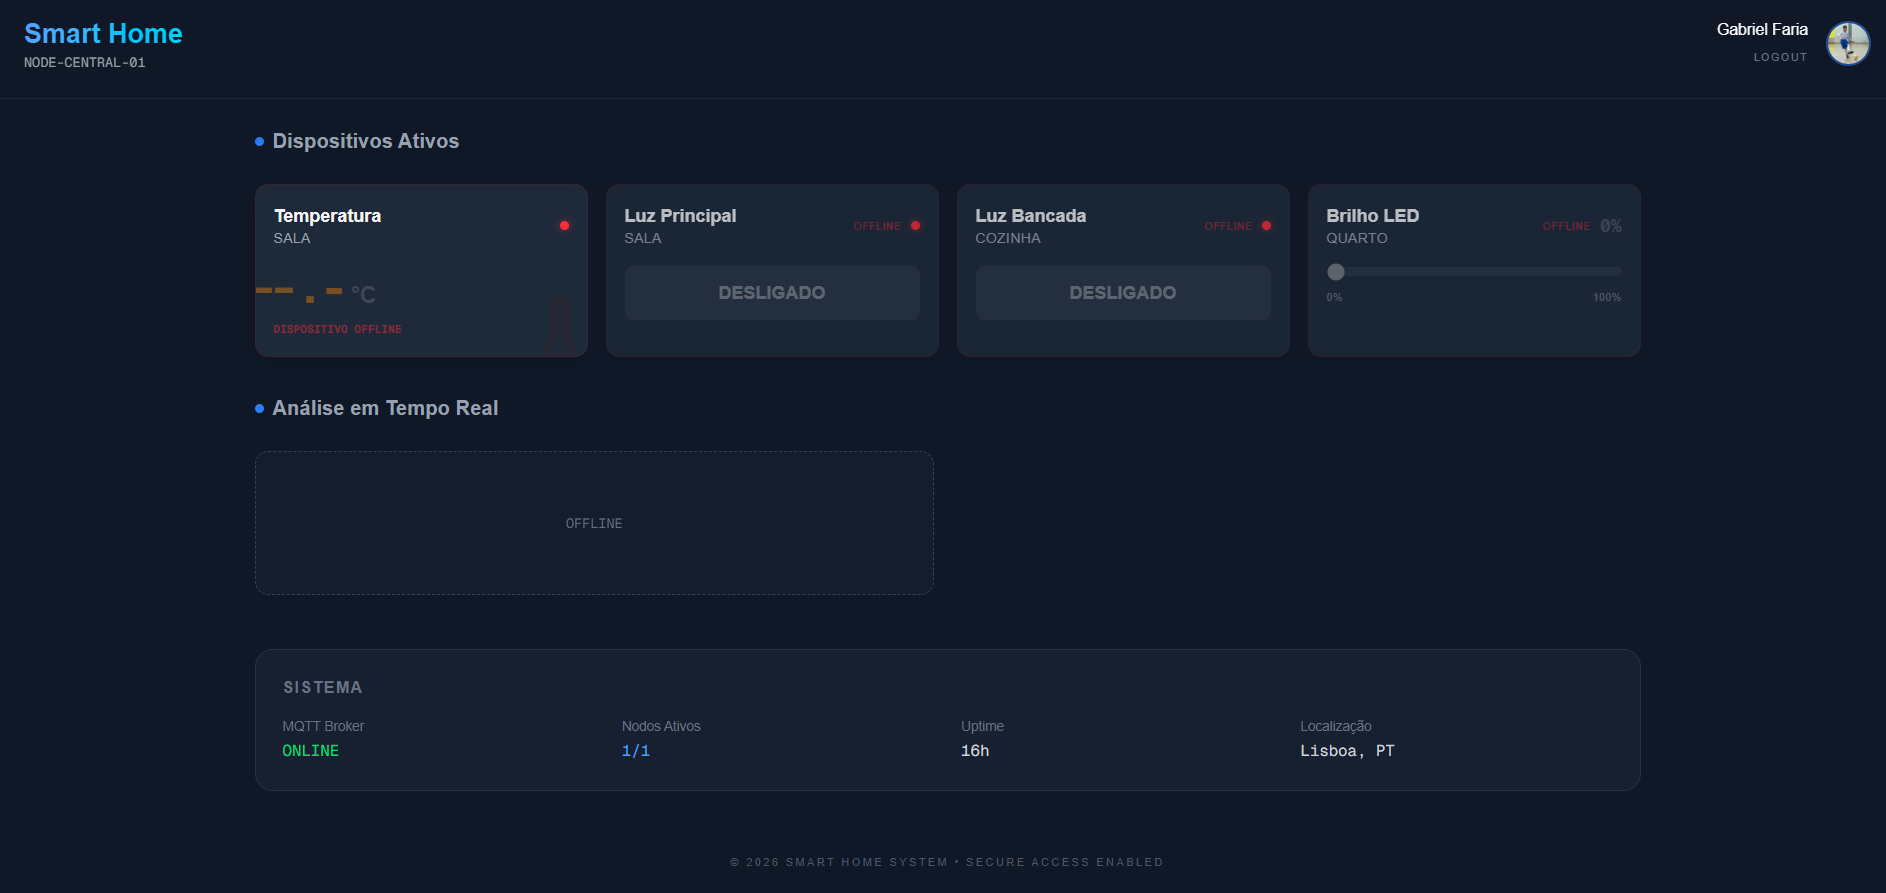
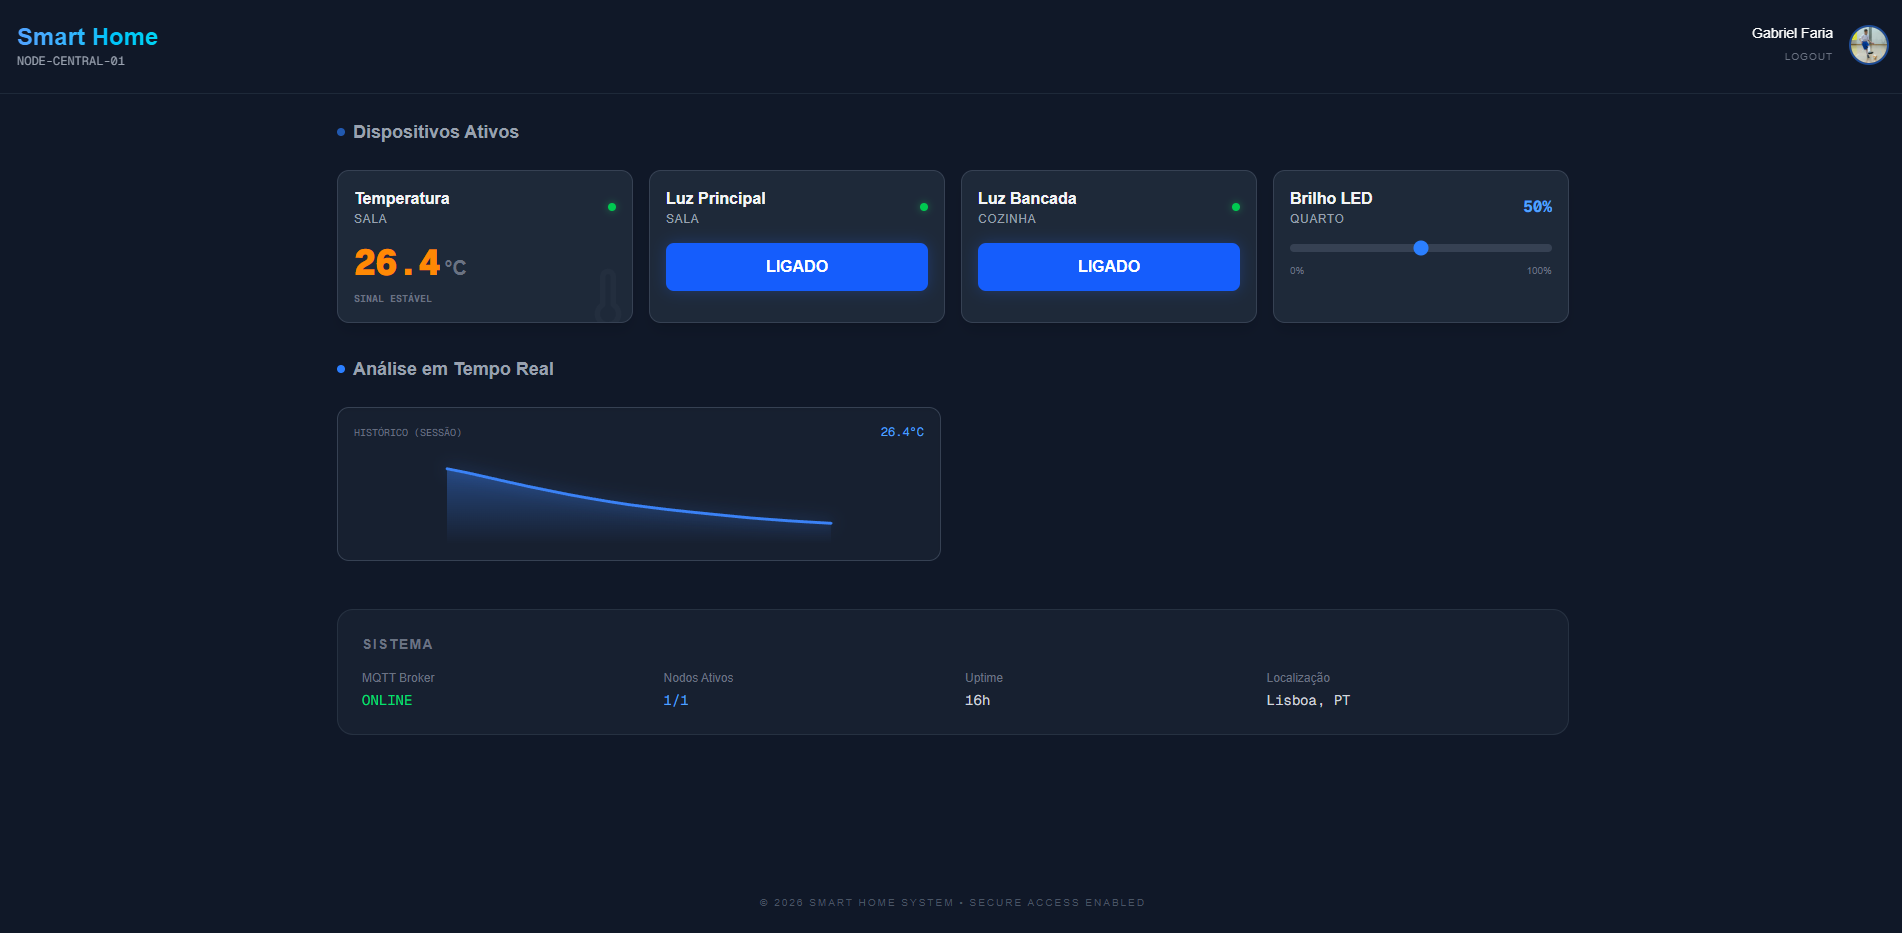
Document the online/offline status fix with screenshots
Adds before/after dashboard screenshots and a HiveMQ web client
capture showing the retained ONLINE status message, and updates the
main dashboard screenshot to the working (online) state since the
old one incidentally captured the offline bug.

diff --git a/docs/source/projects/smart-home/smart_home_mqtt.rst b/docs/source/projects/smart-home/smart_home_mqtt.rst
@@ -122,6 +122,55 @@ User Interface
                :width: 100%
                :alt: Página Principal
 
+Device Status: Online / Offline
+--------------------------------
+
+.. tab-set::
+
+   .. tab-item:: English
+
+      The dashboard tracks whether the ESP32 is actually reachable through a dedicated ``home/status/esp32`` topic, separate from the MQTT broker connection itself. Early on, the sketch never published to this topic, so the dashboard showed every device as **OFFLINE** and blocked all controls, even though the broker connection was healthy and temperature readings kept arriving on their own topic.
+
+      .. list-table::
+         :widths: 50 50
+         :class: borderless
+
+         * - .. image:: images/Device_Offline_Before_Fix.png
+               :width: 100%
+               :alt: Dashboard incorrectly showing the device offline
+
+           - .. image:: images/Main_Page.png
+               :width: 100%
+               :alt: Dashboard correctly showing the device online
+
+      The fix uses MQTT's **Last Will and Testament (LWT)**: on connect, the ESP32 registers a retained ``OFFLINE`` will message on ``home/status/esp32`` and immediately publishes a retained ``ONLINE`` message of its own. If the device drops off ungracefully, the broker publishes the will automatically. Retaining both messages ensures the dashboard gets the correct status as soon as it subscribes, without waiting for the next state change.
+
+      .. image:: images/HiveMQ_Status_Messages.png
+         :width: 90%
+         :alt: HiveMQ web client showing the retained ONLINE status message and temperature readings
+
+   .. tab-item:: Português
+
+      O dashboard verifica se o ESP32 está de facto acessível através de um tópico dedicado, ``home/status/esp32``, separado da própria ligação ao broker MQTT. Inicialmente, o sketch nunca publicava neste tópico, pelo que o dashboard mostrava todos os dispositivos como **OFFLINE** e bloqueava os controlos, mesmo com a ligação ao broker saudável e as leituras de temperatura a chegar normalmente no seu próprio tópico.
+
+      .. list-table::
+         :widths: 50 50
+         :class: borderless
+
+         * - .. image:: images/Device_Offline_Before_Fix.png
+               :width: 100%
+               :alt: Dashboard a mostrar incorretamente o dispositivo offline
+
+           - .. image:: images/Main_Page.png
+               :width: 100%
+               :alt: Dashboard a mostrar corretamente o dispositivo online
+
+      A correção usa o **Last Will and Testament (LWT)** do MQTT: ao ligar, o ESP32 regista uma mensagem de will retida ``OFFLINE`` em ``home/status/esp32`` e publica de imediato uma mensagem retida ``ONLINE`` própria. Se o dispositivo cair de forma abrupta, o broker publica o will automaticamente. Reter ambas as mensagens garante que o dashboard recebe o estado correto assim que subscreve o tópico, sem esperar pela próxima mudança de estado.
+
+      .. image:: images/HiveMQ_Status_Messages.png
+         :width: 90%
+         :alt: Cliente web do HiveMQ a mostrar a mensagem retida ONLINE e as leituras de temperatura
+
 Arduino Code
 ------------
 